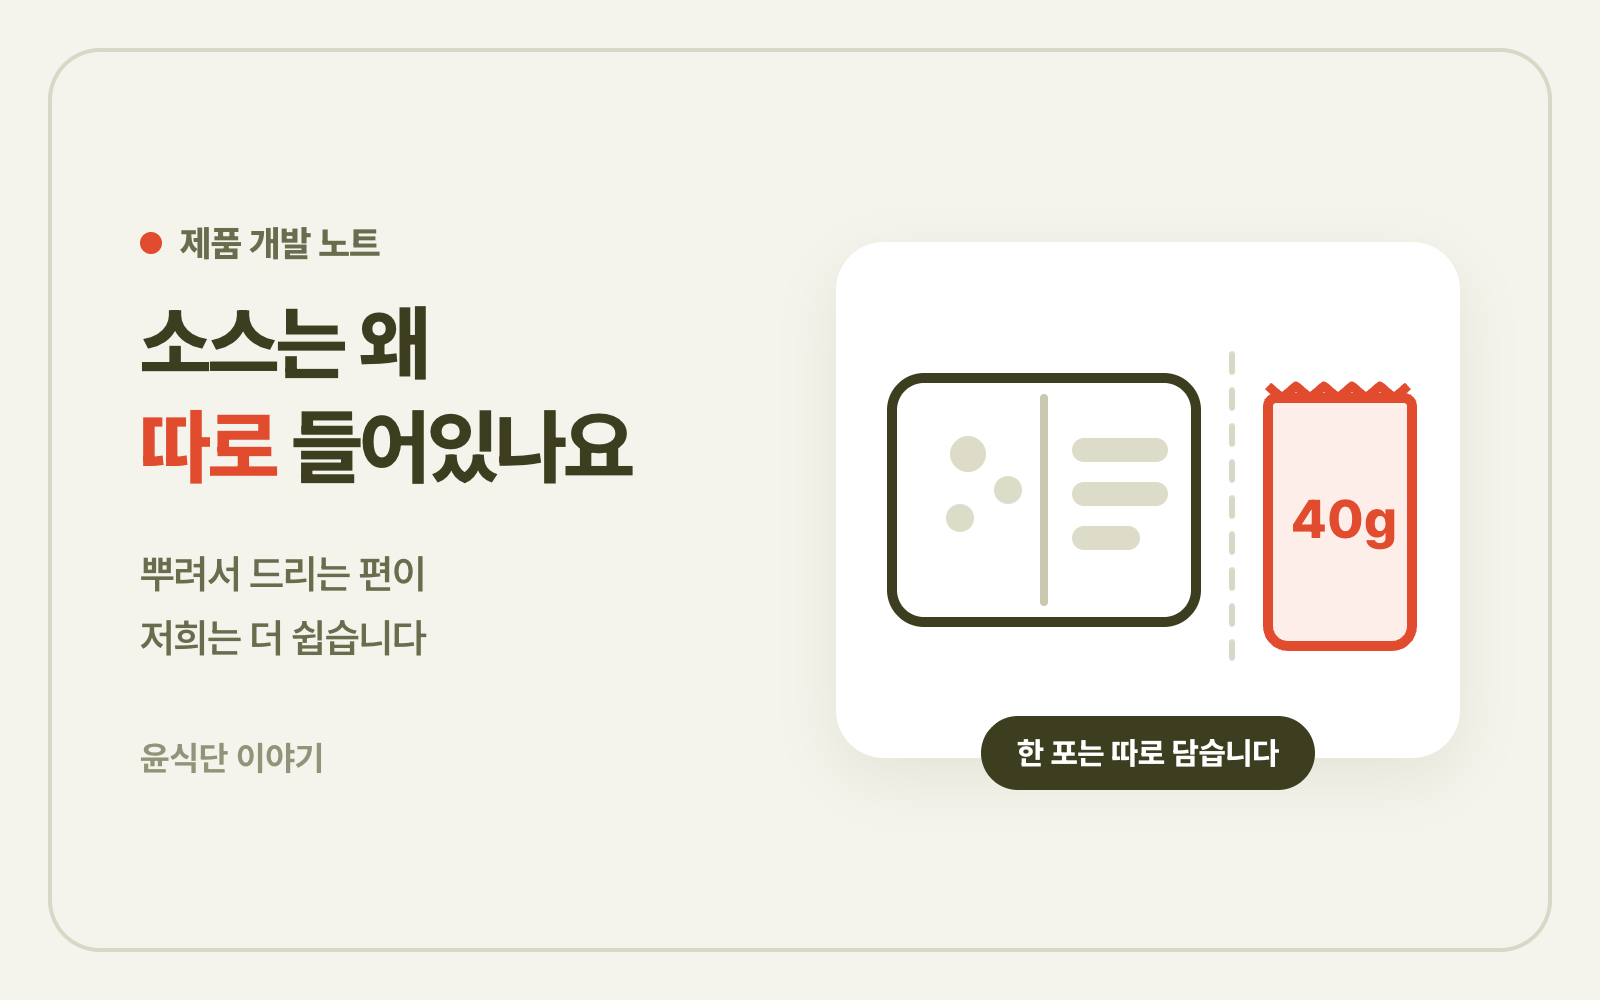
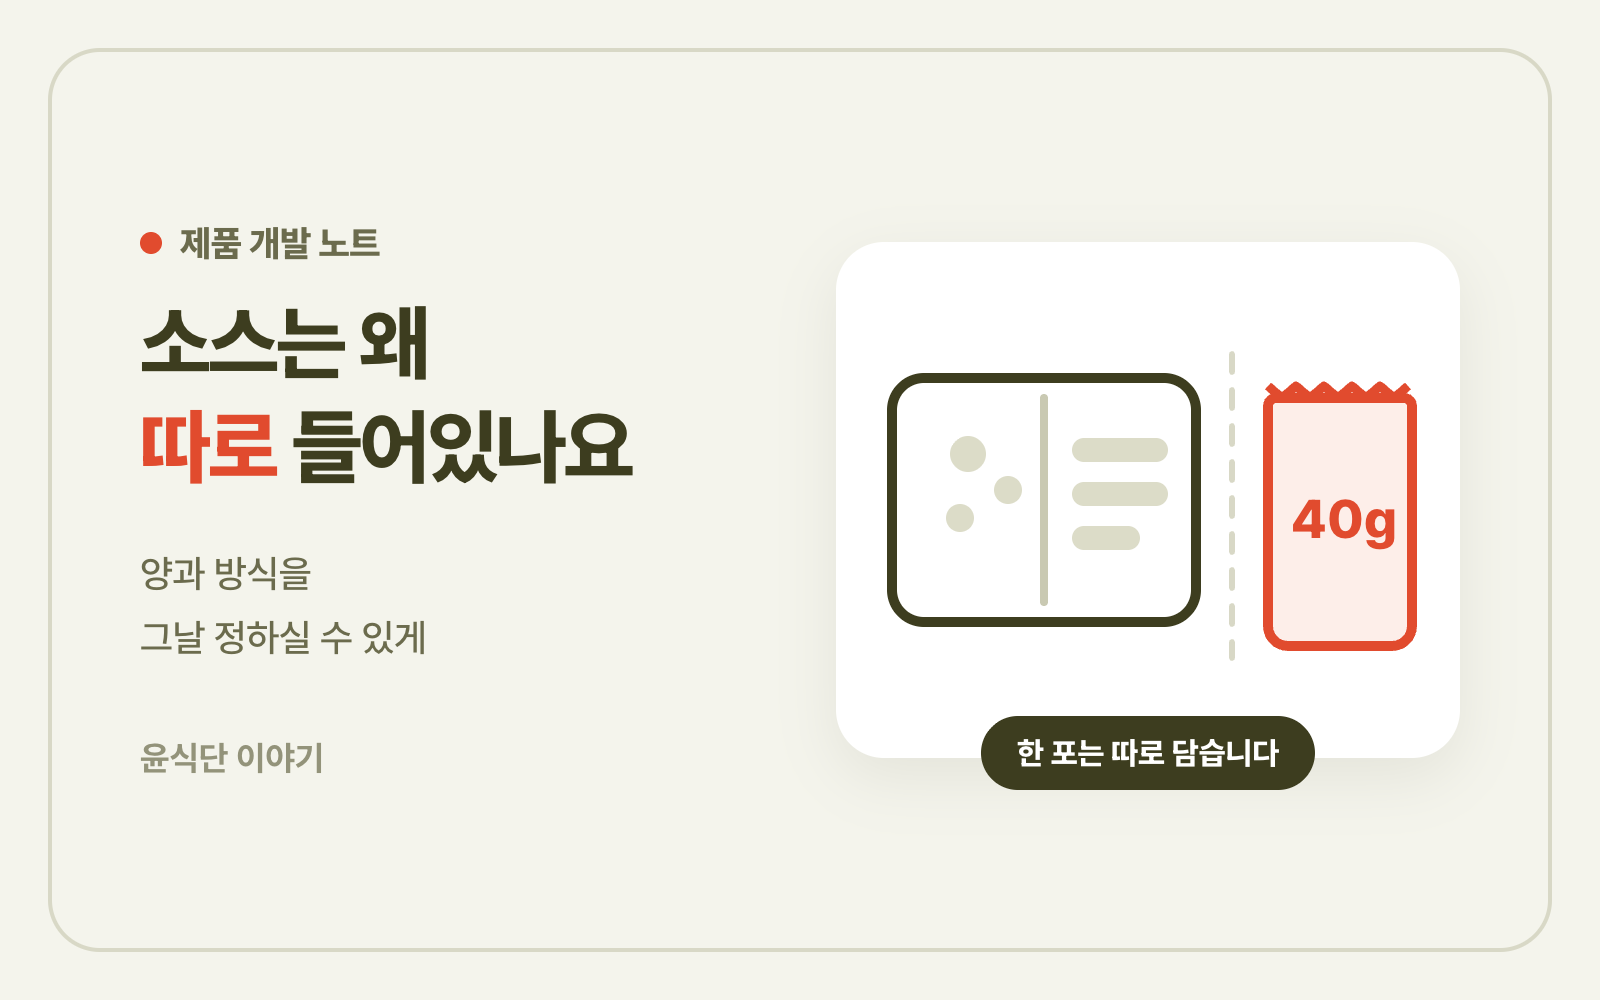
assets: __YD_FOOTER_V3_52__

Changed region(s): [[0.0938, 0.62, 0.2812, 0.651], [0.0938, 0.558, 0.2812, 0.589]]

diff --git a/yd-footer.js b/yd-footer.js
@@ -2,10 +2,10 @@
 (function() {
   'use strict';
 
-  if (window.__YD_FOOTER_V3_51__) {
+  if (window.__YD_FOOTER_V3_52__) {
     return;
   }
-  window.__YD_FOOTER_V3_51__ = true;
+  window.__YD_FOOTER_V3_52__ = true;
 
   const CONFIG = {
     BEST_URL: 'https://www.yundiet.com/best',
@@ -31,7 +31,7 @@
   })();
 
   /* ── 자체 검증 (콘솔에서 YD_CHECK() 실행) ── */
-  const ydStatus = { version: '3.51', page: location.pathname, features: {} };
+  const ydStatus = { version: '3.52', page: location.pathname, features: {} };
   function ydMark(key, ok, note) {
     ydStatus.features[key] = { ok: !!ok, note: note || '' };
   }
@@ -312,7 +312,12 @@
       }
     }
 
-    function patchCardArea(area, idx, row) {
+    function patchCardPrice(current, idx, row) {
+      const area = current && current.parentElement;
+      if (!area || current.closest('[data-yd-discount-display]') ||
+          current.closest('.special-sale-wrap')) {
+        return;
+      }
       if (hasNativeDiscount(area)) {
         if (qs('[data-yd-discount-display="root"]', area)) {
           removeCustom(area);
@@ -322,9 +327,6 @@
       if (qs('[data-yd-discount-display="root"]', area)) {
         return;
       }
-      const current = Array.from(area.children).find(function(el) {
-        return el.classList && el.classList.contains('pay');
-      });
       const actual = current ? parseWon(current.textContent) : null;
       if (actual === null || actual !== row.sale) {
         if (actual !== null) {
@@ -364,14 +366,9 @@
         if (!row) {
           return;
         }
-        const areas = [];
-        qsa('h2', card).forEach(function(title) {
-          const area = title.parentElement;
-          if (area && areas.indexOf(area) === -1) {
-            areas.push(area);
-          }
+        qsa('.pay', card).forEach(function(current) {
+          patchCardPrice(current, idx, row);
         });
-        areas.forEach(function(area) { patchCardArea(area, idx, row); });
       });
     }
 
@@ -3470,7 +3467,7 @@
     window.setTimeout(function() {
       Object.keys(ydStatus.features).forEach(function(key) {
         if (!ydStatus.features[key].ok) {
-          console.warn('[YD v3.51] 미적용 감지: ' + key + ' — ' + ydStatus.features[key].note + ' (YD_CHECK()로 상세 확인)');
+          console.warn('[YD v3.52] 미적용 감지: ' + key + ' — ' + ydStatus.features[key].note + ' (YD_CHECK()로 상세 확인)');
         }
       });
     }, 6000);
